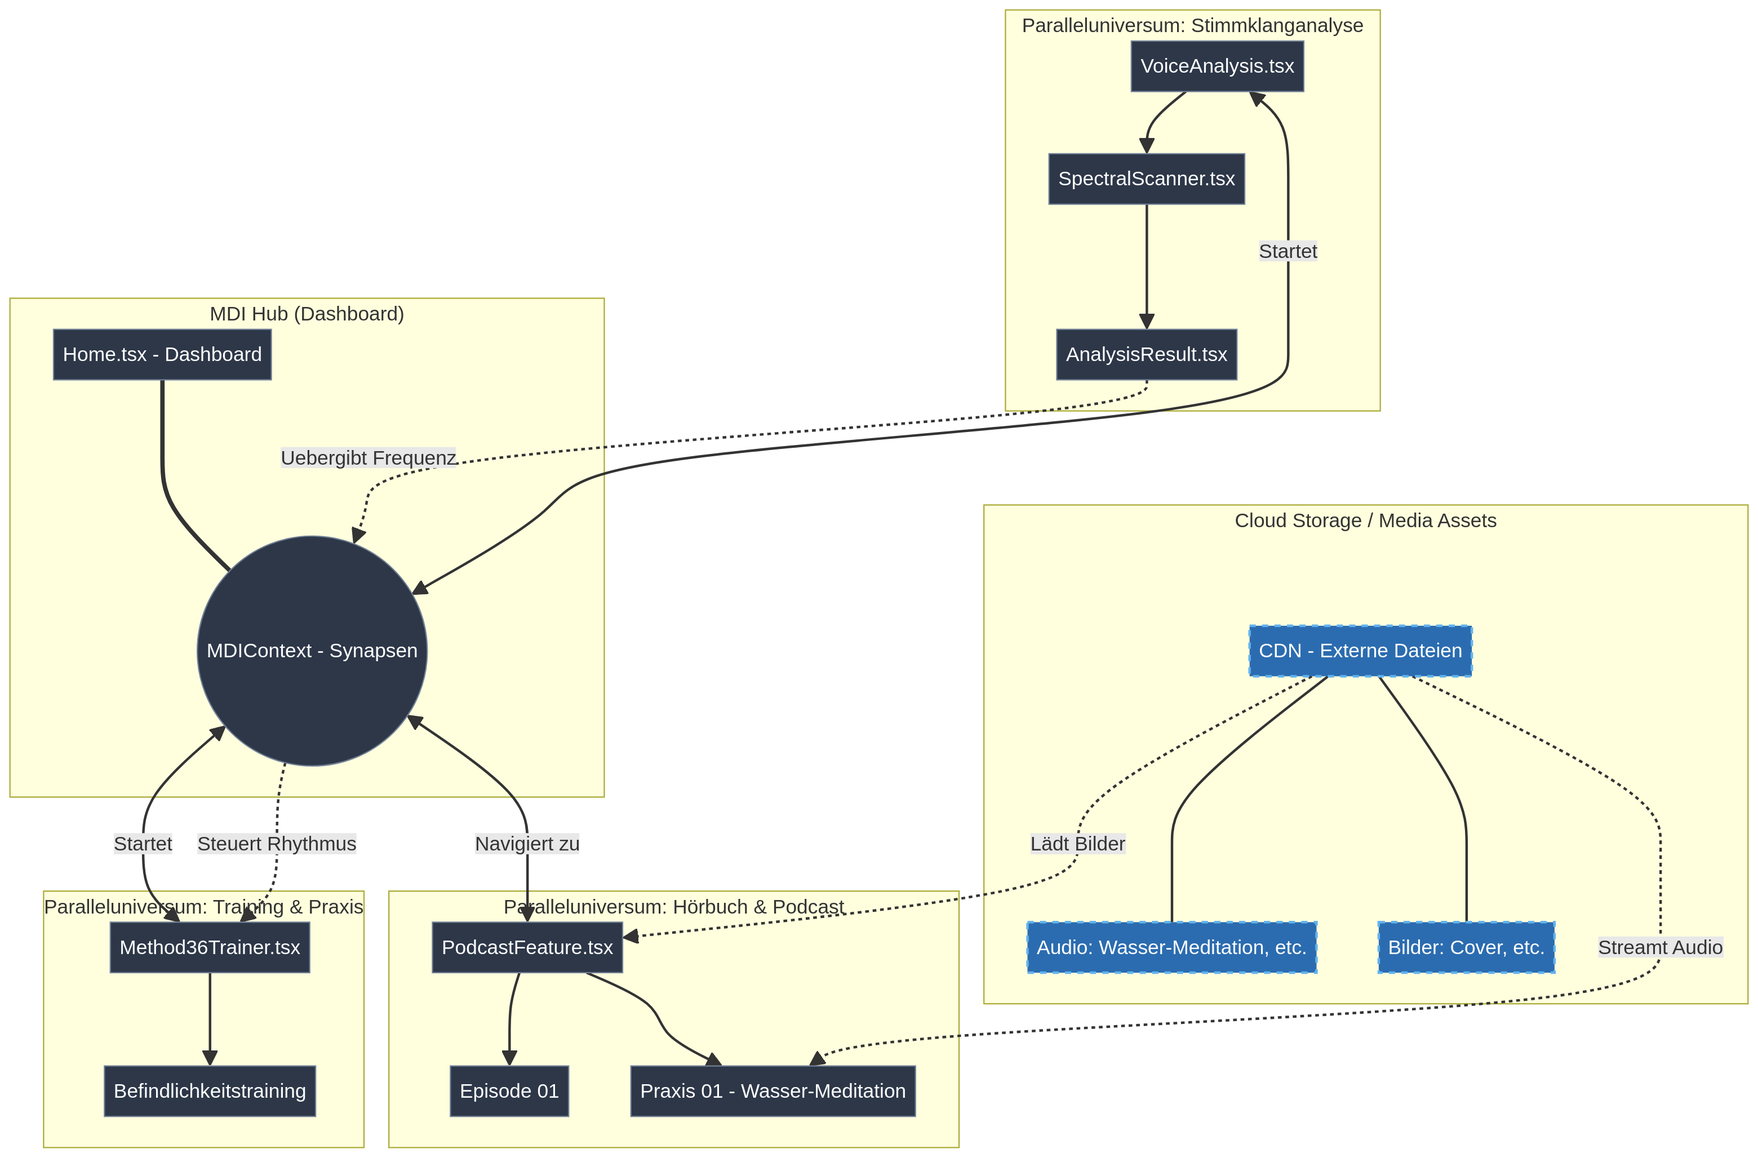
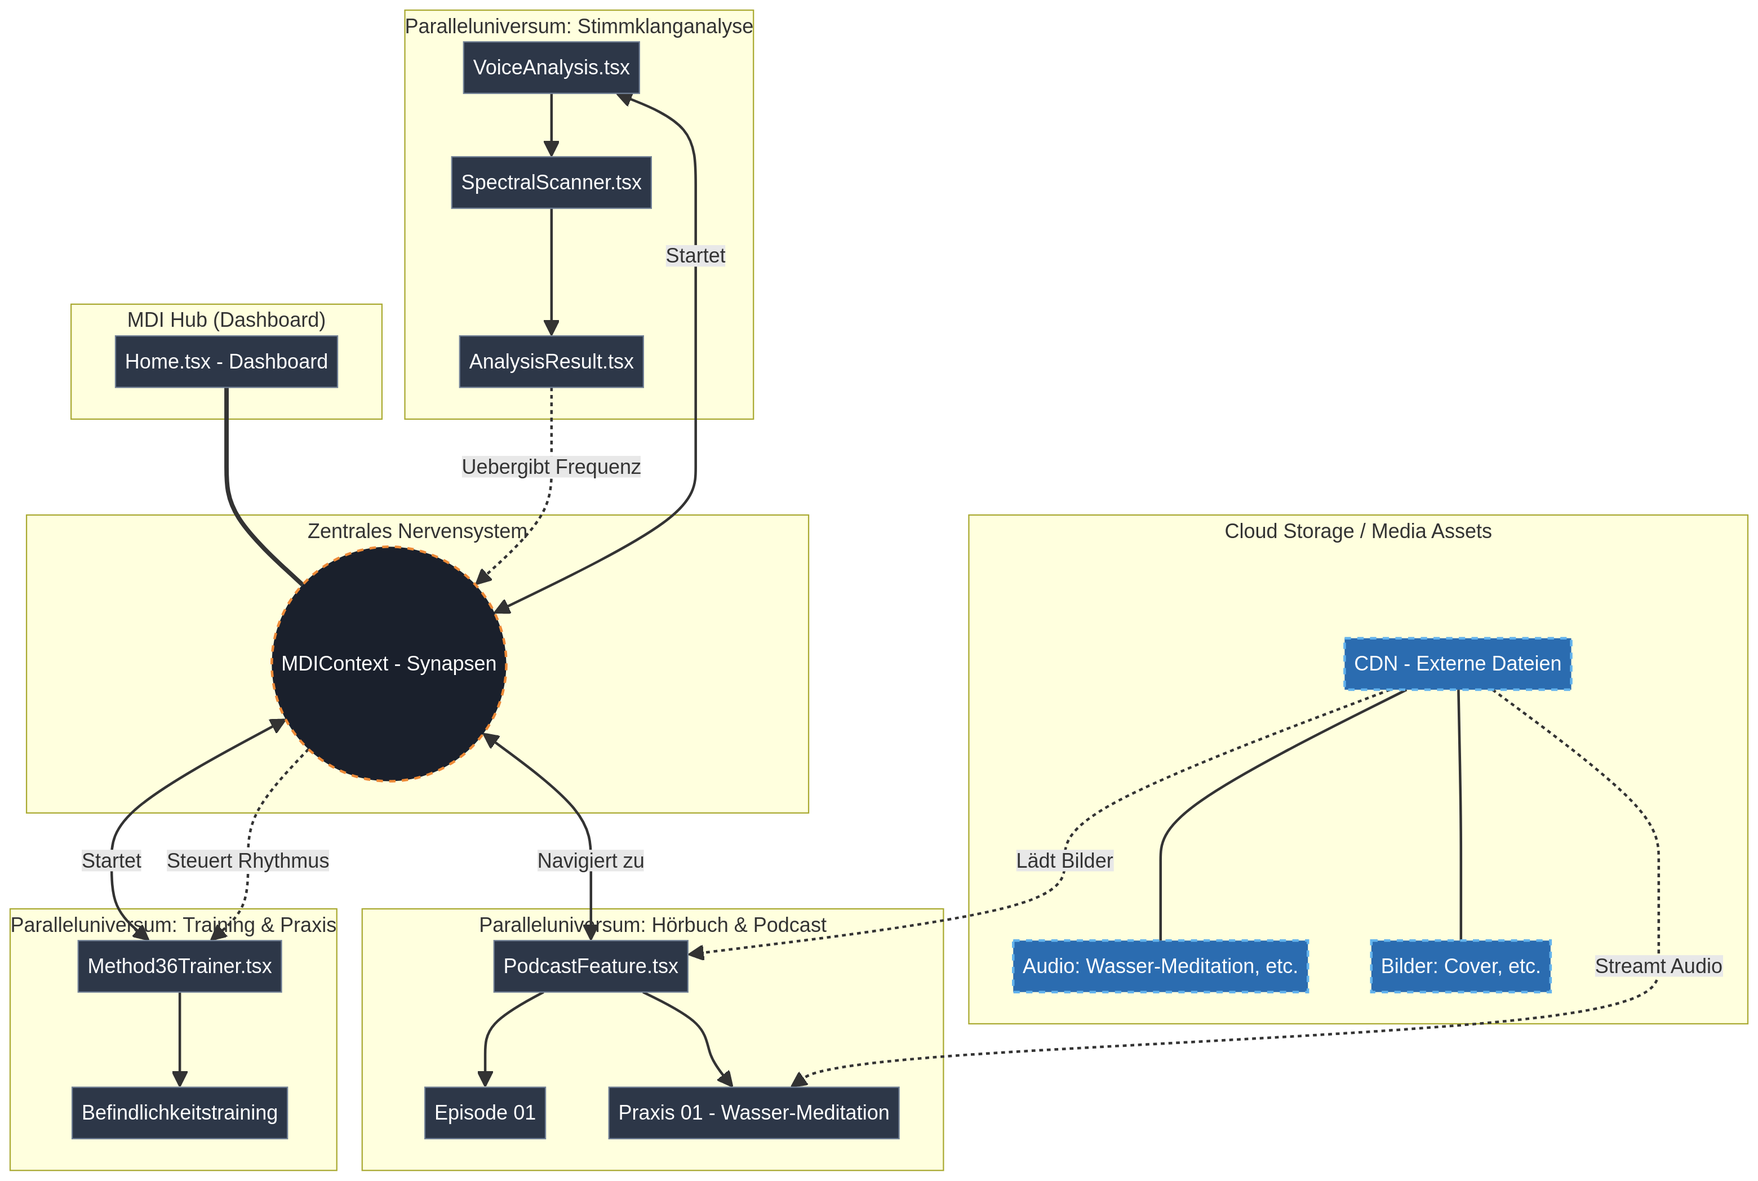
Checkpoint: Added Visionsraum module to the Dashboard, featuring the concept for "DIE ATEMDIÄT".

diff --git a/client/src/components/Visionsraum.tsx b/client/src/components/Visionsraum.tsx
@@ -1,0 +1,156 @@
+import { useState } from "react";
+import { Card, CardContent } from "@/components/ui/card";
+import { ArrowLeft, BookOpen, Flame, Lightbulb, Zap } from "lucide-react";
+import { Button } from "@/components/ui/button";
+
+interface VisionsraumProps {
+    onClose: () => void;
+}
+
+export function Visionsraum({ onClose }: VisionsraumProps) {
+    const [activeConcept, setActiveConcept] = useState<string | null>("atemdiaet");
+
+    return (
+        <div className="max-w-5xl mx-auto py-8 px-4 animate-in fade-in duration-500">
+            <header className="mb-12">
+                <Button 
+                    variant="ghost" 
+                    className="text-zinc-500 hover:text-white mb-6 -ml-4"
+                    onClick={onClose}
+                >
+                    <ArrowLeft className="mr-2 w-4 h-4" /> Zurück zum Dashboard
+                </Button>
+                
+                <div className="flex items-center gap-4 mb-4">
+                    <div className="w-16 h-16 rounded-2xl bg-yellow-500/20 flex items-center justify-center text-yellow-500">
+                        <Flame className="w-8 h-8" />
+                    </div>
+                    <div>
+                        <h1 className="text-4xl font-bold text-white tracking-tight">Visionsraum</h1>
+                        <p className="text-zinc-400 mt-2 text-lg">Der Inkubator für neue Konzepte der Expedition 2026.</p>
+                    </div>
+                </div>
+            </header>
+
+            <div className="grid grid-cols-1 md:grid-cols-12 gap-8">
+                {/* Sidebar / Navigation */}
+                <div className="md:col-span-4 space-y-4">
+                    <h3 className="text-xs font-bold text-zinc-500 uppercase tracking-widest mb-4">Aktuelle Konzepte</h3>
+                    
+                    <Card 
+                        className={`bg-zinc-900/50 border-zinc-800 cursor-pointer transition-all hover:border-yellow-500/50 ${activeConcept === 'atemdiaet' ? 'border-yellow-500/50 shadow-[0_0_15px_rgba(234,179,8,0.1)]' : ''}`}
+                        onClick={() => setActiveConcept('atemdiaet')}
+                    >
+                        <CardContent className="p-4 flex items-center gap-3">
+                            <div className={`w-10 h-10 rounded-lg flex items-center justify-center ${activeConcept === 'atemdiaet' ? 'bg-yellow-500/20 text-yellow-500' : 'bg-zinc-800 text-zinc-400'}`}>
+                                <Wind className="w-5 h-5" />
+                            </div>
+                            <div>
+                                <h4 className="text-white font-medium">DIE ATEMDIÄT</h4>
+                                <p className="text-xs text-zinc-500">Stoffwechsel & Rhythmus</p>
+                            </div>
+                        </CardContent>
+                    </Card>
+
+                    <Card className="bg-zinc-900/20 border-zinc-800/50 border-dashed opacity-50">
+                        <CardContent className="p-4 flex items-center justify-center h-24">
+                            <p className="text-xs text-zinc-600 flex items-center gap-2">
+                                <Lightbulb className="w-4 h-4" /> Platz für neue Visionen
+                            </p>
+                        </CardContent>
+                    </Card>
+                </div>
+
+                {/* Content Area */}
+                <div className="md:col-span-8">
+                    {activeConcept === 'atemdiaet' && (
+                        <div className="space-y-8 animate-in slide-in-from-right-8 duration-500">
+                            <div className="bg-gradient-to-br from-yellow-900/20 to-orange-900/10 border border-yellow-500/20 rounded-2xl p-8 md:p-12 relative overflow-hidden">
+                                <div className="absolute top-0 right-0 w-64 h-64 bg-yellow-500/5 rounded-full blur-3xl -translate-y-1/2 translate-x-1/4 pointer-events-none" />
+                                
+                                <div className="inline-flex items-center gap-2 bg-yellow-500/10 text-yellow-500 px-3 py-1 rounded-full text-xs font-bold tracking-wider mb-6 border border-yellow-500/20">
+                                    <Zap className="w-3 h-3" /> KONZEPT-ENTWURF
+                                </div>
+                                
+                                <h2 className="text-3xl md:text-5xl font-bold text-white mb-4 tracking-tighter leading-tight">
+                                    DIE ATEMDIÄT
+                                </h2>
+                                <p className="text-xl text-yellow-500/80 font-medium mb-8 leading-relaxed">
+                                    Warum du nicht abnimmst, wenn du falsch atmest – und wie 7 Minuten Rhythmus deinen Stoffwechsel neu programmieren.
+                                </p>
+                                
+                                <div className="prose prose-invert max-w-none prose-p:text-zinc-300 prose-p:leading-relaxed prose-headings:text-white prose-strong:text-orange-400">
+                                    <p>
+                                        Ein radikal neuer Ansatz zur Gewichtsregulation, der nicht beim Magen, sondern beim Nervensystem und der Atmung ansetzt.
+                                    </p>
+                                    
+                                    <h3 className="text-2xl mt-8 mb-4 border-b border-zinc-800 pb-2">Die Kern-These</h3>
+                                    <p>
+                                        Über 85 % der Menschen scheitern beim Versuch, ihr Normalgewicht zu erreichen oder zu halten. Der Grund ist nicht mangelnde Disziplin oder die falsche Kalorienbilanz, sondern ein <strong>Stoffwechsel-Wirkungsgrad von oft nur 60 %</strong>. Wenn das autonome Nervensystem im permanenten "Überlebens- und Stressmodus" (Sympathikus) feststeckt, schaltet der Körper auf Notstrom und Fettspeicherung.
+                                    </p>
+                                    <p>
+                                        Die Lösung liegt nicht auf dem Teller, sondern im Atemrhythmus. "Die Atemdiät" nutzt harte physiologische Fakten – <strong>CO2-Toleranz, Stickstoffmonoxid-Produktion (NO) und Körperkerntemperatur</strong> –, um den Stoffwechsel über gezieltes Mikrotraining (7–12 Minuten) von "Überleben" auf "Verbrennung" umzuprogrammieren.
+                                    </p>
+
+                                    <h3 className="text-2xl mt-12 mb-6 border-b border-zinc-800 pb-2">Die drei Säulen der Atemdiät</h3>
+                                    
+                                    <div className="grid gap-6 mt-6">
+                                        <div className="bg-black/40 border border-zinc-800 p-6 rounded-xl">
+                                            <h4 className="text-xl text-yellow-500 mt-0 mb-3 flex items-center gap-2">
+                                                <span className="w-8 h-8 rounded-full bg-yellow-500/20 flex items-center justify-center text-sm">1</span>
+                                                Die Physiologie des Atems
+                                            </h4>
+                                            <p className="mb-2"><strong>Die CO2-Toleranz als Schalter:</strong> Nur wer eine hohe Toleranz für Kohlendioxid im Blut aufbaut, ermöglicht es den roten Blutkörperchen, Sauerstoff an die Zellen (und Mitochondrien) abzugeben (Bohr-Effekt).</p>
+                                            <p className="mb-2"><strong>Das Wunder-Molekül NO:</strong> Entsteht primär bei Nasenatmung. Es weitet Gefäße, senkt Blutdruck und pusht das Immunsystem.</p>
+                                            <p className="mb-0"><strong>Die Körperkerntemperatur:</strong> Gezielte Atemtechniken beeinflussen die Thermogenese und steigern den Grundumsatz.</p>
+                                        </div>
+
+                                        <div className="bg-black/40 border border-zinc-800 p-6 rounded-xl">
+                                            <h4 className="text-xl text-yellow-500 mt-0 mb-3 flex items-center gap-2">
+                                                <span className="w-8 h-8 rounded-full bg-yellow-500/20 flex items-center justify-center text-sm">2</span>
+                                                Das Rhythmus-Mikrotraining
+                                            </h4>
+                                            <p className="mb-2"><strong>7 bis 12 Minuten:</strong> Kurze, hochpräzise Rhythmus-Einheiten, die das System "resetten" statt stundenlangem, stressigem Ausdauertraining.</p>
+                                            <p className="mb-0"><strong>Takt vs. Pulsation:</strong> Wir brechen die maschinelle Monotonie (den Stress-Takt) auf und etablieren eine dynamische Pulsation (HRV), die dem Körper Sicherheit signalisiert.</p>
+                                        </div>
+
+                                        <div className="bg-black/40 border border-zinc-800 p-6 rounded-xl">
+                                            <h4 className="text-xl text-yellow-500 mt-0 mb-3 flex items-center gap-2">
+                                                <span className="w-8 h-8 rounded-full bg-yellow-500/20 flex items-center justify-center text-sm">3</span>
+                                                Neurobiologische Hacks
+                                            </h4>
+                                            <p className="mb-2"><strong>Der "Graue-Brille-Effekt":</strong> Unser Gehirn assoziiert leuchtende Farben evolutionär mit energiereicher Nahrung. Entzieht man der Nahrung (mental oder real) die Farbe, stuft das Gehirn sie als unattraktiv ein. Der Appetit verschwindet gehirnphysiologisch sofort.</p>
+                                            <p className="mb-0"><strong>Reizunterbrechung:</strong> Gezielte Atempausen unterbrechen den "Autopiloten" beim Essen.</p>
+                                        </div>
+                                    </div>
+                                </div>
+                            </div>
+                        </div>
+                    )}
+                </div>
+            </div>
+        </div>
+    );
+}
+
+// Temporary icon definition since Wind might not be imported correctly in this isolated scope if missing
+function Wind(props: any) {
+  return (
+    <svg
+      {...props}
+      xmlns="http://www.w3.org/2000/svg"
+      width="24"
+      height="24"
+      viewBox="0 0 24 24"
+      fill="none"
+      stroke="currentColor"
+      strokeWidth="2"
+      strokeLinecap="round"
+      strokeLinejoin="round"
+    >
+      <path d="M17.7 7.7a2.5 2.5 0 1 1 1.8 4.3H2" />
+      <path d="M9.6 4.6A2 2 0 1 1 11 8H2" />
+      <path d="M12.6 19.4A2 2 0 1 0 14 16H2" />
+    </svg>
+  )
+}

diff --git a/client/src/components/Dashboard.tsx b/client/src/components/Dashboard.tsx
@@ -16,6 +16,7 @@ interface DashboardProps {
     onOpenVital: () => void;
     onOpenSleep: () => void;
     onOpenHistory: () => void;
+    onOpenVisionsraum: () => void;
     isPremium: boolean;
     onTogglePremium: () => void;
 }
@@ -29,6 +30,7 @@ export function Dashboard({
     onOpenVital,
     onOpenSleep,
     onOpenHistory,
+    onOpenVisionsraum,
     isPremium,
     onTogglePremium
 }: DashboardProps) {
@@ -342,6 +344,36 @@ export function Dashboard({
                                 <button onClick={() => handlePremiumClick(onOpenSleep, "Schlaf-Optimierung")} className="text-orange-500 hover:text-orange-400 text-sm font-medium inline-flex items-center group/btn transition-colors">
                                     Session starten <ArrowRight className="ml-1.5 w-4 h-4 group-hover/btn:translate-x-1 transition-transform" />
                                 </button>
+                            </div>
+                        </CardContent>
+                    </Card>
+                </motion.div>
+
+                 {/* Pillar 8: Visionsraum */}
+                 <motion.div
+                    initial={{ opacity: 0, y: 20 }}
+                    animate={{ opacity: 1, y: 0 }}
+                    transition={{ duration: 0.5, delay: 0.8 }}
+                >
+                    <Card 
+                        className="bg-zinc-900/40 border-zinc-800 hover:bg-zinc-900 hover:border-yellow-500/50 transition-all group h-full relative overflow-hidden cursor-pointer"
+                        onClick={onOpenVisionsraum}
+                    >
+                        <div className="absolute inset-0 bg-gradient-to-br from-yellow-500/10 to-transparent opacity-0 group-hover:opacity-100 transition-opacity" />
+                        <CardContent className="p-6 flex flex-col h-full relative z-10">
+                            <div className="w-12 h-12 rounded-xl bg-yellow-500/20 flex items-center justify-center mb-4 text-yellow-500 group-hover:scale-110 transition-transform">
+                                <Flame className="w-6 h-6" />
+                            </div>
+                            
+                            <h2 className="text-xl font-bold text-white mb-2">Visionsraum</h2>
+                            <p className="text-sm text-zinc-400 mb-6 leading-relaxed">
+                                Der Inkubator für neue Konzepte und Ideen der Expedition 2026. Aktuell: DIE ATEMDIÄT.
+                            </p>
+
+                            <div className="mt-auto">
+                                <span className="text-orange-500 hover:text-orange-400 text-sm font-medium inline-flex items-center group/btn transition-colors">
+                                    Betreten <ArrowRight className="ml-1.5 w-4 h-4 group-hover/btn:translate-x-1 transition-transform" />
+                                </span>
                             </div>
                         </CardContent>
                     </Card>

diff --git a/client/src/pages/Home.tsx b/client/src/pages/Home.tsx
@@ -20,6 +20,7 @@ import { VitalDashboard } from "@/components/VitalDashboard";
 import { IntervalTrainer } from "@/components/IntervalTrainer";
 import { Method36Trainer } from "@/components/Method36Trainer";
 import { TrainingCategoryStructure } from "@/components/TrainingCategoryStructure";
+import { Visionsraum } from "@/components/Visionsraum";
 import { AppInstallGuide } from "@/components/AppInstallGuide";
 import { PodcastFeature } from "@/components/PodcastFeature";
 import { WurzelklangVerification } from "@/components/WurzelklangVerification";
@@ -168,6 +169,7 @@ export default function Home() {
   const [showAppInstallGuide, setShowAppInstallGuide] = useState(false);
   const [isPremium, setIsPremium] = useState(false);
   const [showPodcast, setShowPodcast] = useState(false);
+  const [showVisionsraum, setShowVisionsraum] = useState(false);
   const [showPraxis01, setShowPraxis01] = useState(false);
   const [showAuthorText, setShowAuthorText] = useState(false);
 
@@ -518,6 +520,7 @@ export default function Home() {
                   onOpenVital={() => setShowVitalDashboard(true)}
                   onOpenSleep={() => setShowSleepTheta(true)}
                   onOpenHistory={() => {}}
+                  onOpenVisionsraum={() => setShowVisionsraum(true)}
                   isPremium={isPremium}
                   onTogglePremium={() => setIsPremium(!isPremium)}
                 />
@@ -1417,13 +1420,15 @@ studyMdiResult: ${studyMdiResult ? 'ok' : 'missing'}
              </div>
           ) : showFrequencyTable ? (
             <FrequencyTable onClose={() => setShowFrequencyTable(false)} />
+          ) : showVisionsraum ? (
+            <Visionsraum onClose={() => setShowVisionsraum(false)} />
           ) : (
             renderContent()
           )}
         </main>
         
         {/* Footer */}
-        {!showStory && !showSpectralScanner && !showVitalDashboard && !showIntervalTrainer && !showDirectTrainer && !showFrequencyTable && !showTrainingCenter && currentStep === 'dashboard' && (
+        {!showStory && !showSpectralScanner && !showVitalDashboard && !showIntervalTrainer && !showDirectTrainer && !showFrequencyTable && !showTrainingCenter && !showVisionsraum && currentStep === 'dashboard' && (
             <footer className="mt-24 pb-8 border-t border-zinc-900 pt-8 flex flex-col md:flex-row justify-between items-center gap-4 text-xs text-zinc-600">
                 <div>
                     &copy; {new Date().getFullYear()} MDI System.

diff --git a/die_atemdiaet_konzept.md b/die_atemdiaet_konzept.md
@@ -1,0 +1,59 @@
+# Konzept-Exposé: DIE ATEMDIÄT
+
+**Warum du nicht abnimmst, wenn du falsch atmest – und wie 7 Minuten Rhythmus deinen Stoffwechsel neu programmieren.**
+
+Ein radikal neuer Ansatz zur Gewichtsregulation, der nicht beim Magen, sondern beim Nervensystem und der Atmung ansetzt.
+
+---
+
+## Die Kern-These (Der Pitch)
+
+Über 85 % der Menschen scheitern beim Versuch, ihr Normalgewicht zu erreichen oder zu halten. Der Grund ist nicht mangelnde Disziplin oder die falsche Kalorienbilanz, sondern ein **Stoffwechsel-Wirkungsgrad von oft nur 60 %**. Wenn das autonome Nervensystem im permanenten "Überlebens- und Stressmodus" (Sympathikus) feststeckt, schaltet der Körper auf Notstrom und Fettspeicherung.
+
+Die Lösung liegt nicht auf dem Teller, sondern im Atemrhythmus. **"Die Atemdiät"** nutzt harte physiologische Fakten – CO2-Toleranz, Stickstoffmonoxid-Produktion (NO) und Körperkerntemperatur –, um den Stoffwechsel über gezieltes Mikrotraining (7–12 Minuten) von "Überleben" auf "Verbrennung" umzuprogrammieren.
+
+Ergänzt wird dieser physiologische Ansatz durch clevere neurobiologische "Hacks", die das Gehirn austricksen und den Appetit auf natürliche Weise drosseln.
+
+---
+
+## Die drei Säulen der Atemdiät
+
+### 1. Die Physiologie des Atems (Der Motor)
+
+Die meisten Menschen atmen zu flach, zu schnell und zu oft durch den Mund. Dies führt zu einer paradoxen Unterversorgung der Zellen mit Sauerstoff (Bohr-Effekt) und einem gedrosselten Stoffwechsel.
+
+*   **Die CO2-Toleranz als Stoffwechsel-Schalter:** Nur wer eine hohe Toleranz für Kohlendioxid im Blut aufbaut, ermöglicht es den roten Blutkörperchen, den lebenswichtigen Sauerstoff auch wirklich an die Zellen (und die Mitochondrien, unsere Fettverbrennungsöfen) abzugeben.
+*   **Das Wunder-Molekül Stickstoffmonoxid (NO):** Entsteht primär bei der Nasenatmung (und wird durch Summen/Tönen potenziert). NO weitet die Blutgefäße, senkt den Blutdruck, pusht das Immunsystem und sorgt dafür, dass Nährstoffe und Sauerstoff optimal transportiert werden.
+*   **Die Körperkerntemperatur:** Gezielte Atemtechniken beeinflussen die Thermogenese. Ein optimierter Atemrhythmus hilft dem Körper, seine Kerntemperatur effizienter zu regulieren, was den Grundumsatz massiv steigert.
+
+### 2. Das Rhythmus-Mikrotraining (Das Getriebe)
+
+Stundenlanges Ausdauertraining im falschen Pulsbereich erhöht oft nur den Stresspegel (Cortisol) und blockiert die Fettverbrennung. Die Atemdiät setzt auf **Mikrotraining**.
+
+*   **7 bis 12 Minuten:** Kurze, hochpräzise Rhythmus-Einheiten (wie das *Method 36 Training*), die das System "resetten".
+*   **Takt vs. Pulsation:** Wir brechen die maschinelle Monotonie (den Stress-Takt) des Alltags auf und etablieren eine dynamische, lebendige Pulsation (Herzratenvariabilität), die dem Körper das Signal gibt: "Du bist in Sicherheit, du kannst Energie freigeben."
+
+### 3. Neurobiologische Hacks (Die Steuerung)
+
+Wir kämpfen nicht mit Willenskraft gegen die Evolution, sondern nutzen unser Wissen über das Gehirn, um es auszutricksen.
+
+*   **Der "Graue-Brille-Effekt":** Unser Gehirn assoziiert leuchtende Farben (Rot, Orange, Gelb) evolutionär mit reifer, energiereicher Nahrung. Setzt man (buchstäblich oder im übertragenen Sinne) eine graue Brille auf und entzieht der Nahrung die Farbe, stuft das Gehirn selbst das leckerste Tortenstück als "unattraktiv" oder "potenziell verdorben" ein. Der Appetit verschwindet gehirnphysiologisch im Bruchteil einer Sekunde.
+*   **Reizunterbrechung:** Wie man durch gezielte Atempausen den "Autopiloten" beim Essen unterbricht und vom unbewussten Konsumieren in die bewusste Wahrnehmung wechselt.
+
+---
+
+## Mögliche Kapitelstruktur für Buch oder Podcast
+
+1.  **Das 60-Prozent-Dilemma:** Warum du Kalorien zählen kannst, bis du schwarz wirst, wenn dein Motor stottert.
+2.  **Das Paradoxon des Erstickens:** Warum Viel-Atmer auf zellulärer Ebene zu wenig Sauerstoff haben (Der Bohr-Effekt und die CO2-Toleranz).
+3.  **Die Nasen-Apotheke:** Stickstoffmonoxid (NO) – dein körpereigener Stoffwechsel- und Immun-Booster.
+4.  **Der Thermostat:** Wie der Atem die Körperkerntemperatur und den Grundumsatz steuert.
+5.  **Der Graue-Brille-Hack:** Neurobiologische Tricks, um dem Gehirn den Appetit auf Zucker und Junk-Food zu nehmen.
+6.  **Das 7-Minuten-Reset:** Warum Mikrotraining den Dauerlauf schlägt und wie Rhythmus (Pulsation statt Takt) das Nervensystem heilt.
+7.  **Die Praxis der Atemdiät:** Dein 4-Wochen-Plan zur Neukalibrierung deines Stoffwechsels.
+
+---
+
+## Fazit & Integration in das MDI-System
+
+"DIE ATEMDIÄT" ist nicht nur ein potenzieller Bestseller-Titel, sondern ein idealer Einstiegspunkt (Lead Magnet) für das MDI-Universum. Es holt die Menschen bei einem sehr weltlichen, schmerzhaften Problem (Übergewicht/Energiemangel) ab und führt sie über die harte Physiologie der Atmung direkt in unsere Kernthemen: Rhythmus, Selbstbestimmung und Identität.
